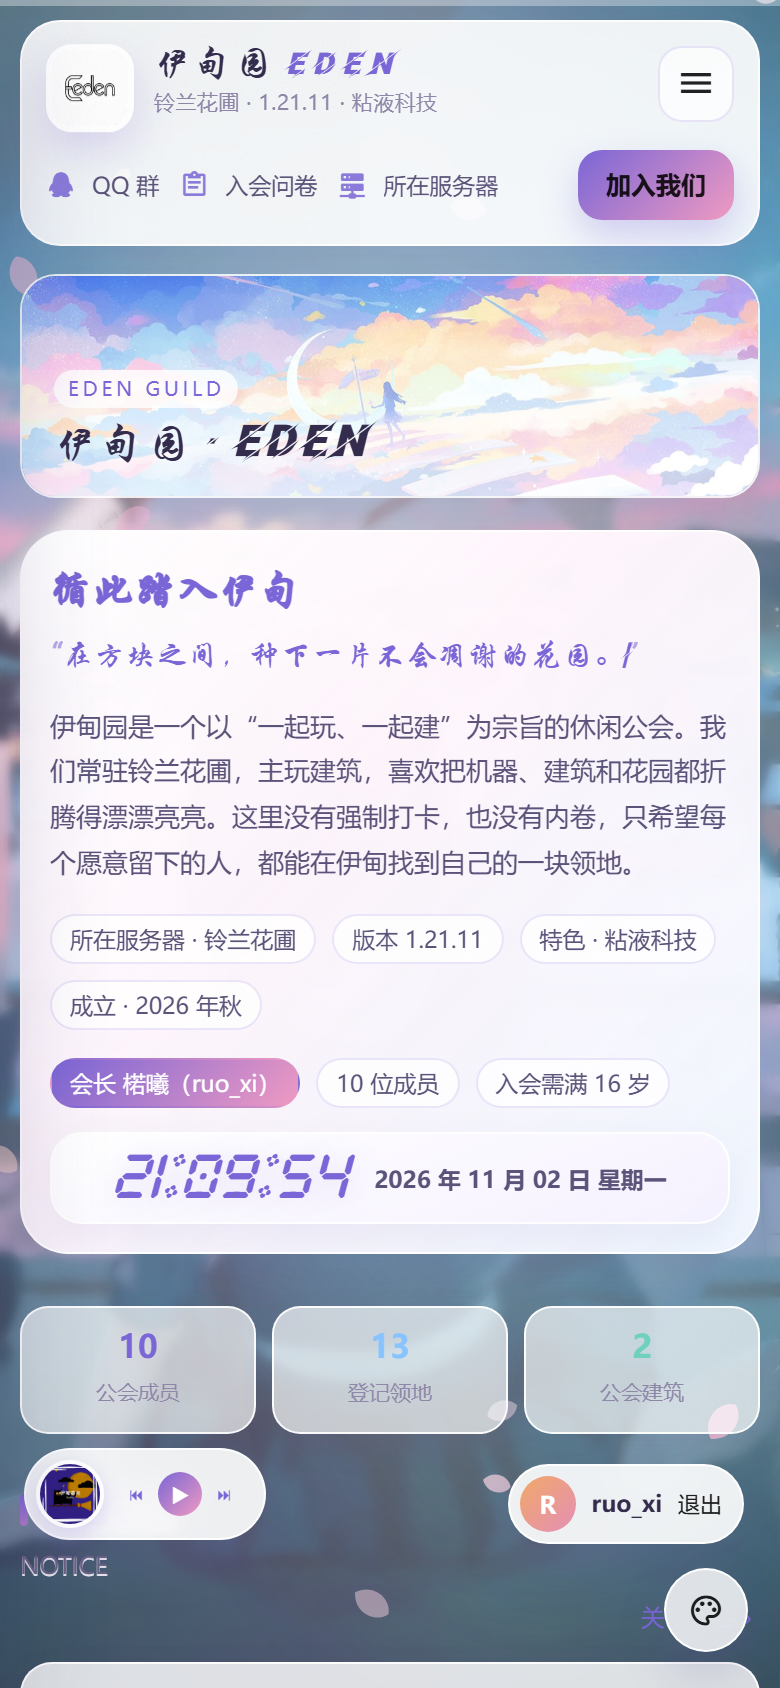
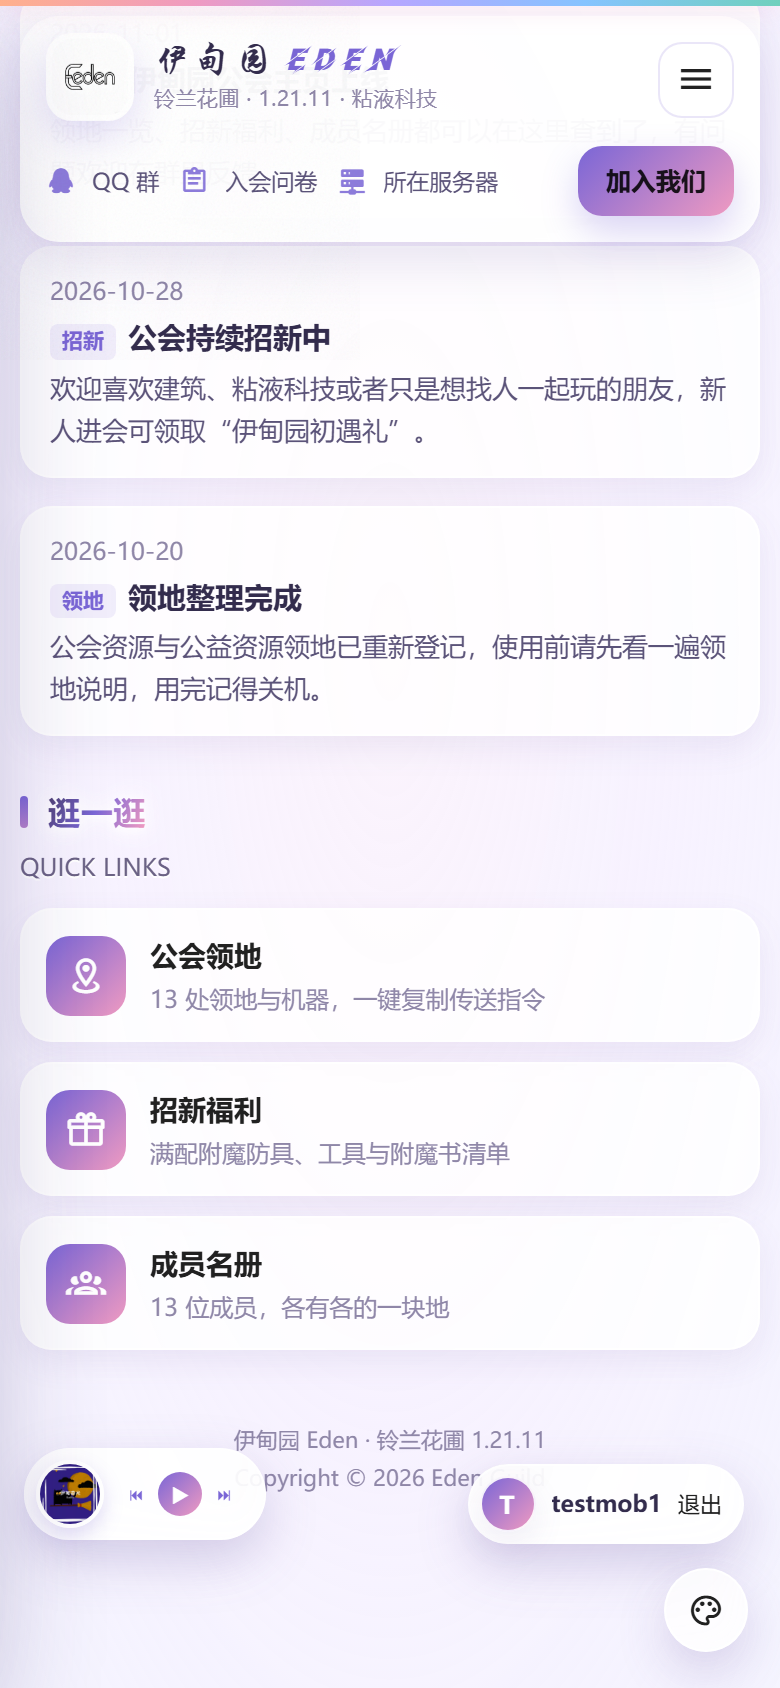
修复bug，发布3.1.1版本

diff --git a/public/css/mobile.less b/public/css/mobile.less
@@ -301,12 +301,18 @@
   }
 
   .eden-side {
+    /* 吸顶：向下滑也还能点到菜单按钮 */
+    position: sticky;
+    top: 8px;
+    z-index: 46;
     grid-template-columns: 44px 1fr 38px;
     grid-template-areas:
       "logo head toggle"
       "foot foot foot";
     padding: 12px;
     gap: 8px 10px;
+    background: rgba(255, 255, 255, 0.97);
+    box-shadow: 0 10px 26px rgba(103, 84, 160, 0.16);
   }
 
   .nav-toggle {
@@ -634,5 +640,72 @@
 
   .stat span {
     font-size: 10.5px;
+  }
+}
+
+/* =========================================================================
+   手机精简模式：只留内容，装饰动画全部关掉，减少掉帧 / 白块
+   ========================================================================= */
+@media (max-width: 760px) {
+  .orb,
+  .cursor-glow,
+  .sakura-layer,
+  .sakura,
+  .petal {
+    display: none !important;
+  }
+
+  .reveal,
+  .reveal.is-visible {
+    opacity: 1 !important;
+    transform: none !important;
+    filter: none !important;
+    transition: none !important;
+    animation: none !important;
+  }
+
+  .reveal .section-head h2,
+  .reveal.is-visible .section-head h2 {
+    clip-path: none !important;
+    transition: none !important;
+  }
+
+  .tilt,
+  .tilt:hover {
+    transform: none !important;
+    transition: none !important;
+  }
+
+  .page-banner img {
+    transform: none !important;
+  }
+
+  .eden-bg-image {
+    filter: brightness(1.05) saturate(1.06);
+  }
+}
+/* 手机端页面切换也不做淡入淡出，避免切换瞬间白块 */
+@media (max-width: 760px) {
+  .fade-enter-active,
+  .fade-leave-active {
+    transition: none !important;
+  }
+
+  .fade-enter-from,
+  .fade-leave-to {
+    opacity: 1 !important;
+    transform: none !important;
+    filter: none !important;
+  }
+}
+/* 手机端毛玻璃很吃性能，面纱改成纯色渐变、不做呼吸动画 */
+@media (max-width: 760px) {
+  .eden-veil {
+    -webkit-backdrop-filter: none;
+    backdrop-filter: none;
+  }
+
+  html.has-bg-video .eden-veil {
+    animation: none !important;
   }
 }

diff --git a/src/app.js b/src/app.js
@@ -1,4 +1,4 @@
-import Splash from './components/Splash.vue'
+import Splash from './components/Splash.vue'
 import SakuraLayer from './components/SakuraLayer.vue'
 import ScrollProgress from './components/ScrollProgress.vue'
 import CursorGlow from './components/CursorGlow.vue'
@@ -43,6 +43,7 @@ export default {
       dialogAuth: false,
       dialogSettings: false,
       navOpen: false,
+      liteMode: typeof window !== 'undefined' && window.matchMedia('(max-width: 760px)').matches,
       eggOpen: false,
       bgOpacity: 100,
       date: '',
@@ -56,6 +57,11 @@ export default {
     }
   },
   computed: {
+    bgImageStyle() {
+      const w = this.configdata.wallpaperVideo || {}
+      const img = w.poster || this.configdata.background || ''
+      return img ? { backgroundImage: `url('${img}')` } : {}
+    },
     currentNav() {
       return this.configdata.nav.find(n => n.key === this.view) || this.configdata.nav[0]
     },
@@ -112,11 +118,23 @@ export default {
     // 横幅轻微视差（尊重系统的减少动态效果设置）
     if (!window.matchMedia('(prefers-reduced-motion: reduce)').matches) {
       window.addEventListener('scroll', this.onScroll, { passive: true })
+
+    // 横竖屏切换时同步「手机精简模式」
+    if (typeof window !== 'undefined' && window.matchMedia) {
+      this.mq = window.matchMedia('(max-width: 760px)')
+      this.onMqChange = e => { this.liteMode = e.matches }
+      if (this.mq.addEventListener) this.mq.addEventListener('change', this.onMqChange)
+      else if (this.mq.addListener) this.mq.addListener(this.onMqChange)
+    }
     }
   },
   beforeUnmount() {
     window.removeEventListener('hashchange', this.applyHash)
     window.removeEventListener('scroll', this.onScroll)
+    if (this.mq && this.onMqChange) {
+      if (this.mq.removeEventListener) this.mq.removeEventListener('change', this.onMqChange)
+      else if (this.mq.removeListener) this.mq.removeListener(this.onMqChange)
+    }
   },
   watch: {
     bgOpacity(val) {

diff --git a/src/App.vue b/src/App.vue
@@ -1,25 +1,38 @@
 <template>
   <div class="eden-app">
     <video
-      v-if="configdata.wallpaperVideo && configdata.wallpaperVideo.enable"
+      v-if="!liteMode && configdata.wallpaperVideo && configdata.wallpaperVideo.enable"
       class="eden-bg-video"
       :poster="configdata.wallpaperVideo.poster"
       autoplay
       muted
       loop
       playsinline
+      webkit-playsinline
+      preload="auto"
+      disablepictureinpicture
+      disableremoteplayback
+      x-webkit-airplay="deny"
+      controlslist="nodownload nofullscreen noremoteplayback"
+      tabindex="-1"
       aria-hidden="true"
+      @contextmenu.prevent
     >
       <source :src="configdata.wallpaperVideo.src" type="video/webm" />
     </video>
 
+    <!-- 手机端不加载视频，用同一张海报做静态背景 -->
+    <div v-if="liteMode" class="eden-bg-image" :style="bgImageStyle" aria-hidden="true"></div>
+
     <div class="eden-veil" aria-hidden="true"></div>
 
-    <CursorGlow />
-    <div class="orb orb-1"></div>
-    <div class="orb orb-2"></div>
-    <div class="orb orb-3"></div>
-    <SakuraLayer />
+    <CursorGlow v-if="!liteMode" />
+    <template v-if="!liteMode">
+      <div class="orb orb-1"></div>
+      <div class="orb orb-2"></div>
+      <div class="orb orb-3"></div>
+    </template>
+    <SakuraLayer v-if="!liteMode" />
     <ScrollProgress />
     <Splash v-if="showSplash" :image="configdata.splashImage" :doors="configdata.splashDoors" @enter="onEnter" />
 

diff --git a/api/register.js b/api/register.js
@@ -1,4 +1,4 @@
-/**
+/**
  * POST /api/register  { gameName, qq, password, guildCode? }
  * 规则：
  *  - 每个游戏名只能注册一次，每个 QQ 也只能注册一次
@@ -7,7 +7,7 @@
 import crypto from 'node:crypto'
 import { store, storageError } from './_kv.js'
 import { json, readBody, hashPassword, createSession, setSessionCookie, publicUser } from './_auth.js'
-import { matchMember, guildCode, checkGameName, checkQQ, checkPassword } from './_guild.js'
+import { matchMember, guildCode, checkGameName, checkQQ, checkPassword, candidateProfile } from './_guild.js'
 
 export default async function handler(req, res) {
   if (req.method !== 'POST') return json(res, 405, { error: '只支持 POST' })
@@ -65,6 +65,14 @@ export default async function handler(req, res) {
   }
 
   await store.set(`eden:user:${id}`, JSON.stringify(user))
+
+  // 非名册账号：顺手存一份「成员档案」，格式与老成员一致，方便复制转正
+  if (!member) {
+    try {
+      const profile = await candidateProfile(gameName)
+      await store.set(`eden:candidate:${gameName.toLowerCase()}`, JSON.stringify(profile))
+    } catch (e) { /* 档案失败不影响注册 */ }
+  }
 
   const token = await createSession(id)
   setSessionCookie(res, token)

diff --git a/api/_guild.js b/api/_guild.js
@@ -1,4 +1,4 @@
-/**
+/**
  * 公会成员判定 + 表单校验。
  * 名册来自两处：src/config.js 的 members（写死的），以及页面上「录入成员」存进 KV 的名单。
  */
@@ -148,6 +148,31 @@ export function pickAvatar(seed) {
 
 export function pickColor(seed) {
   return COLORS[hashOf(seed) % COLORS.length]
+}
+
+/**
+ * 新注册账号的「候选成员档案」：字段顺序和 config.members 里的老成员一致，
+ * 方便直接复制到数据库 / config.js 里转正。
+ */
+export async function candidateProfile(gameName) {
+  const extra = await readExtraMembers()
+  const taken = [
+    ...(config.members || []).map(m => m.uid),
+    ...(config.guests || []).map(g => g.uid),
+    ...extra.map(m => m.uid)
+  ]
+  const key = String(gameName || '').trim().toLowerCase()
+  return {
+    name: String(gameName || '').trim(),
+    id: String(gameName || '').trim(),
+    role: '成员',
+    color: pickColor(key),
+    avatar: pickAvatar(key),
+    uid: makeUid(taken),
+    joinDate: new Date().toISOString().slice(0, 10),
+    intro: '',
+    quote: ''
+  }
 }
 
 /** 成员 UID：E + 5 位数字（特邀嘉宾在 config.guests 里手写 D + 5 位） */
